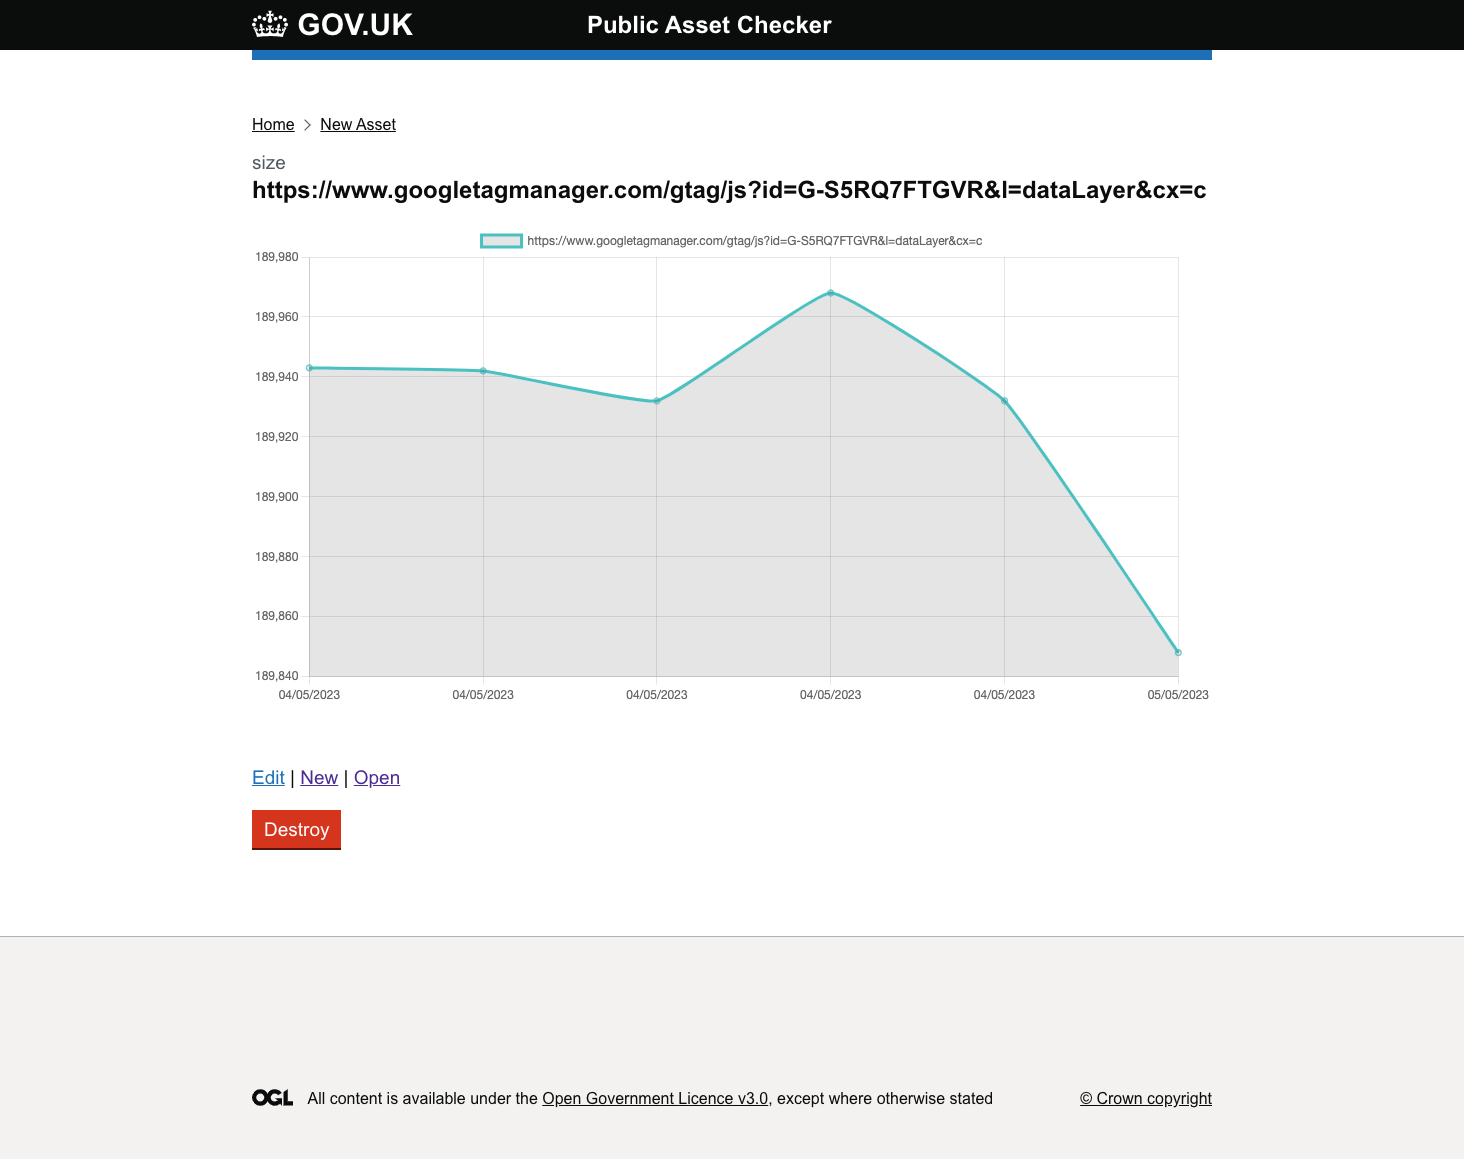
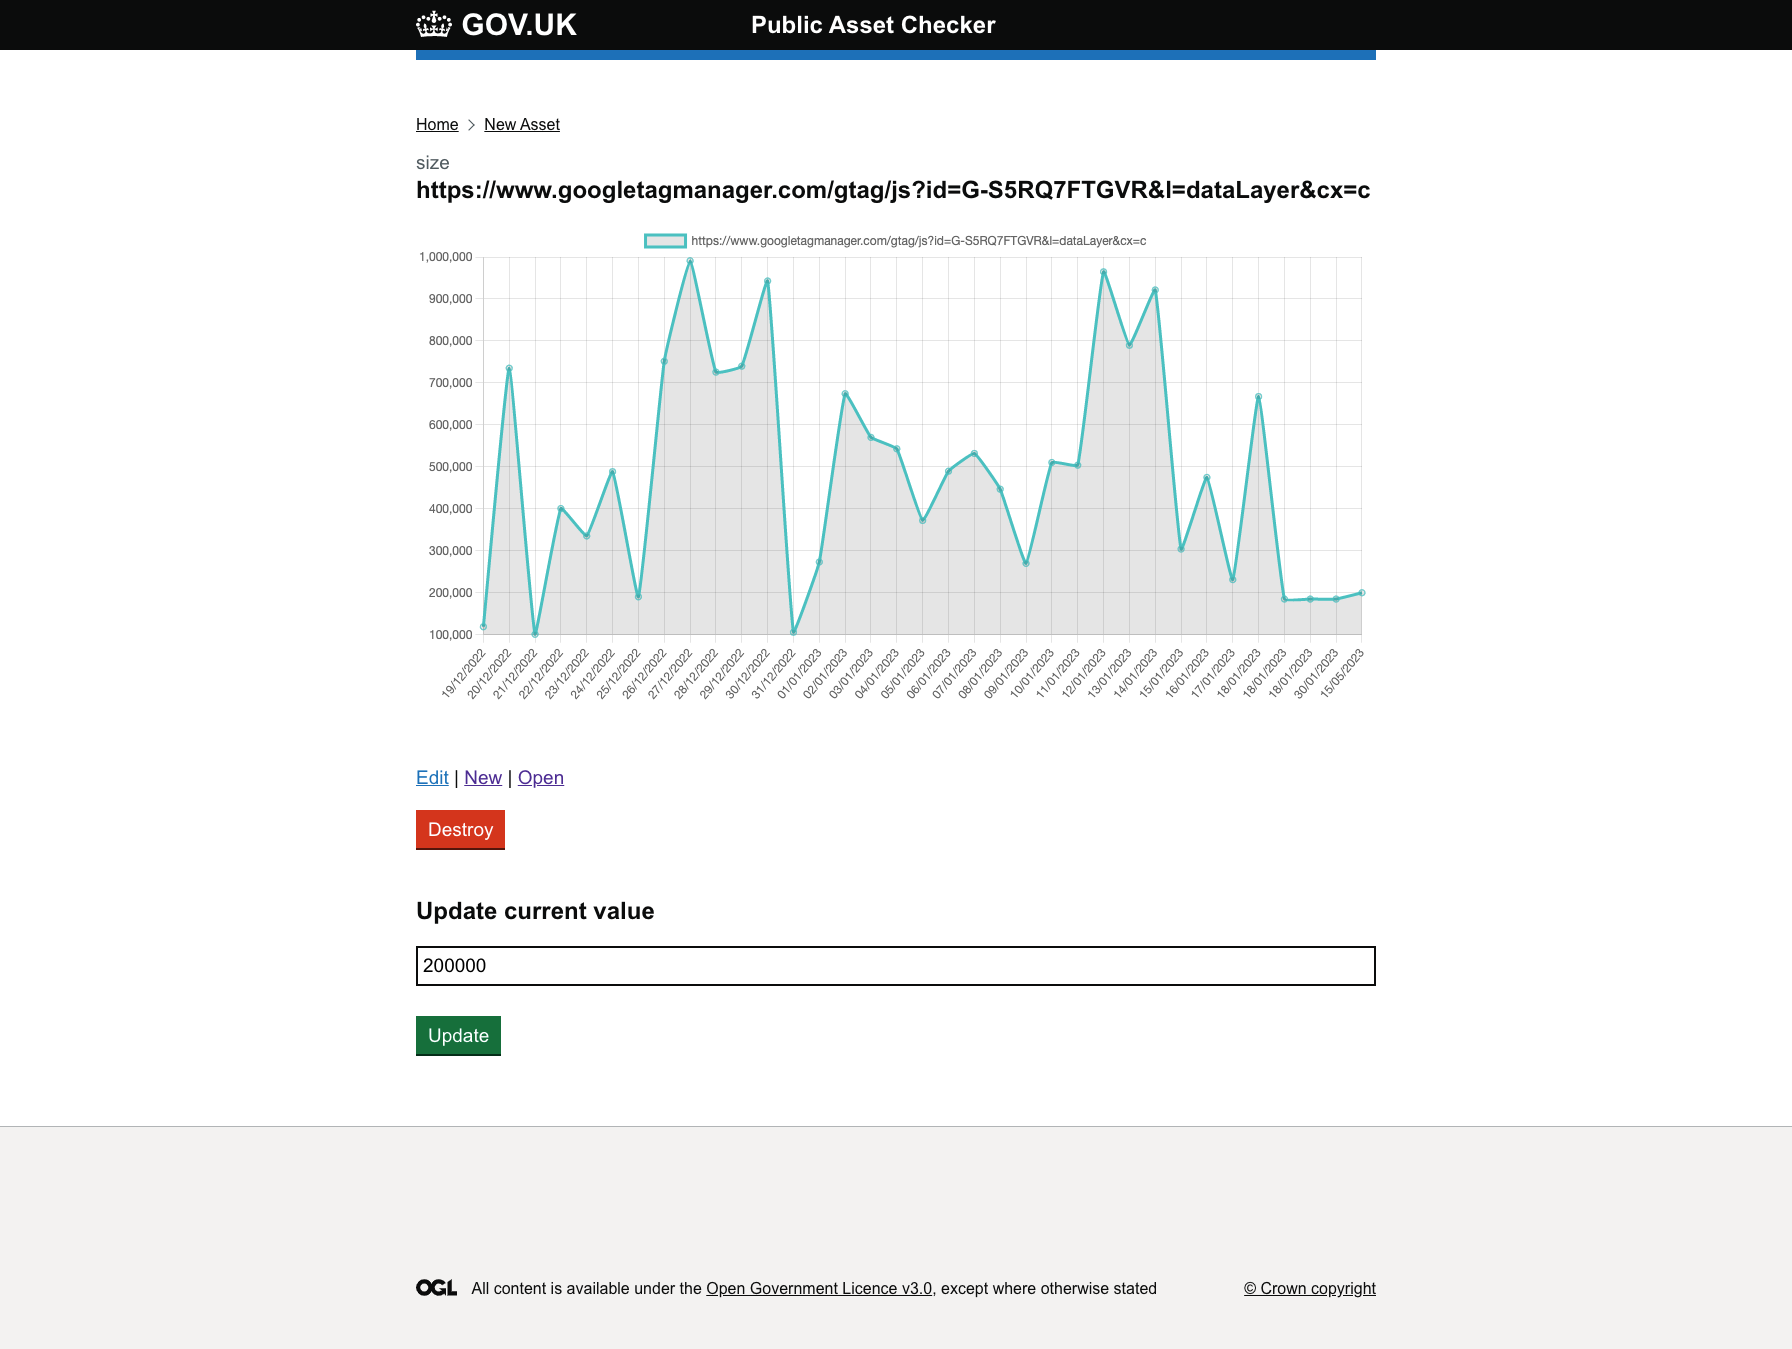
Update documentation

diff --git a/README.md b/README.md
@@ -1,6 +1,6 @@
 # Public Asset Checker
 
-Checks either the size or version of public - third-party hosted - asset files (e.g. JavaScript, CSS etc). We use these assets on GOV.UK pages, so we want to know if the file size or version have changed. To do this we evaluated each file against a known baseline size or version. This then notifies the #user-experience-measurement-govuk Slack channel of the result or action taken.
+Checks either the size or version of public - third-party hosted - asset files (e.g. JavaScript, CSS etc). We use these assets on GOV.UK pages, so we want to know if the file size or version have changed. To do this we evaluate each file against a known baseline size or version. This then notifies the #user-experience-measurement-govuk Slack channel of the result or action taken.
 
 ## Size checking
 
@@ -42,6 +42,8 @@ The app is [hosted on Heroku](https://govuk-public-asset-checker.herokuapp.com/)
 ### [Historical chart for file](https://govuk-public-asset-checker.herokuapp.com/public_assets/2)
 
 ![image](/docs/url-chart-page.png)
+
+This page is also where you can update the last known size or version value for the asset.
 
 ### [Example Slack notifications](https://gds.slack.com/archives/C03BF2YV63E)
 
